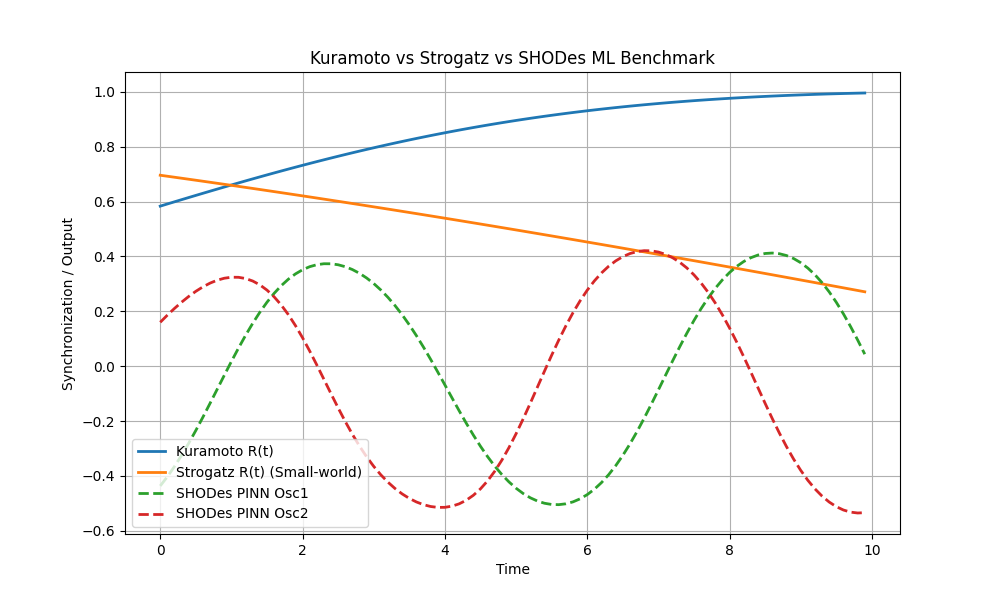
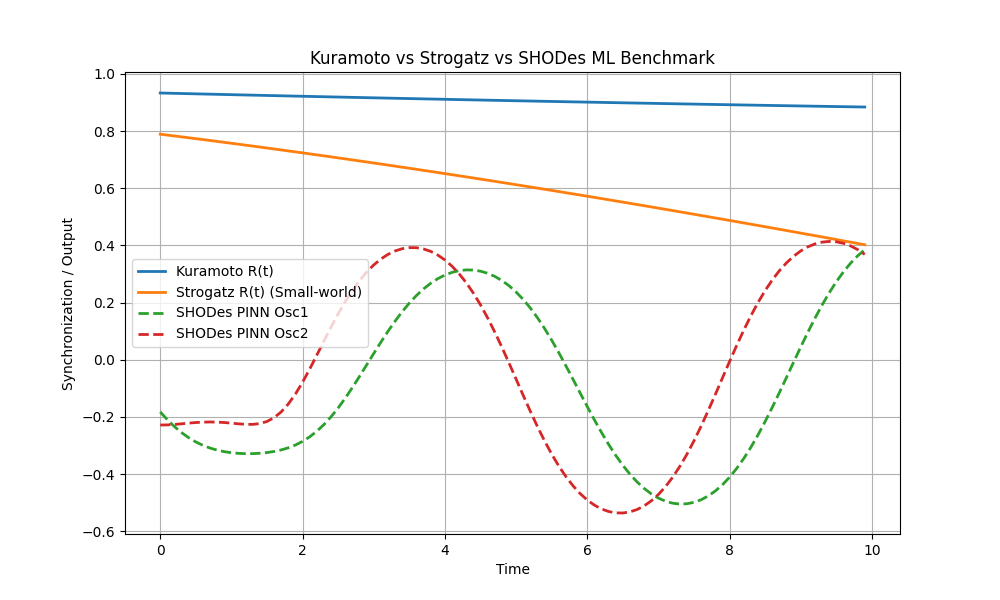
dnn benchmark update

diff --git a/benchmark.py b/benchmark.py
@@ -3,14 +3,13 @@ import tensorflow as tf
 import matplotlib.pyplot as plt
 import networkx as nx
 
-# ---- Kuramoto global coupling (classic) ----
-
+# --- Kuramoto and Strogatz Models ---
 def kuramoto_rhs(theta, omega, K):
     diff = theta[None, :] - theta[:, None]
     coupling = np.sum(np.sin(diff), axis=1) - np.sin(0)
     return omega + (K / 2) * coupling
 
-def simulate_kuramoto_2osc(T=10.0, dt=0.1, K=0.1, omega=None, theta0=None):
+def simulate_kuramoto_2osc(T=100.0, dt=0.1, K=0.1, omega=None, theta0=None):
     steps = int(T / dt)
     theta = np.zeros((steps + 1, 2))
     if omega is None:
@@ -31,8 +30,6 @@ def kuramoto_order_parameter(theta):
     z = np.mean(np.exp(1j * theta))
     return np.abs(z)
 
-# ---- Strogatz: Watts-Strogatz small-world network ----
-
 def watts_strogatz_adjacency(n, k=1, p=0.5, seed=42):
     G = nx.watts_strogatz_graph(n=n, k=k, p=p, seed=seed)
     A = nx.to_numpy_array(G, dtype=float)
@@ -44,7 +41,7 @@ def kuramoto_rhs_network(theta, omega, K, A):
     coupling = (A * np.sin(diff)).sum(axis=1)
     return omega + (K / max(1, A.shape[0])) * coupling
 
-def simulate_kuramoto_strogatz_2osc(T=10.0, dt=0.1, K=0.1, omega=None, theta0=None, p=0.5):
+def simulate_kuramoto_strogatz_2osc(T=100.0, dt=0.1, K=0.1, omega=None, theta0=None, p=0.5):
     n = 2
     A = watts_strogatz_adjacency(n=n, k=1, p=p, seed=42)
     steps = int(T / dt)
@@ -63,16 +60,14 @@ def simulate_kuramoto_strogatz_2osc(T=10.0, dt=0.1, K=0.1, omega=None, theta0=No
     time = np.linspace(0, T, steps + 1)
     return time, theta
 
-# ---- SHODes ML Model runner section ----
-
-def run_shodes_pinn_dnn(batch_size=100, n_oscillators=2, model_type='genpot3', params=[1.0, 0.1, 0.1]):
+# --- SHODes PINN and DNN model runner ---
+def run_shodes_pinn_dnn(batch_size=1001, n_oscillators=2, model_type='genpot3', params=[1.0, 0.1, 0.1]):
     pinn_path = f'models/merged_pinn_{model_type}.keras'
     dnn_path = f'models/merged_dnn_model.keras'
     merged_pinn = tf.keras.models.load_model(pinn_path)
     dnn = tf.keras.models.load_model(dnn_path)
-    # Use Kuramoto's phases as dummy displacements for ML model
-    time_ml, theta_ml = simulate_kuramoto_2osc(T=10, dt=0.1, K=params[2])
-    x_data = np.sin(theta_ml[:batch_size]).astype(np.float32) # Shape: (batch_size, n_oscillators)
+    time_ml, theta_ml = simulate_kuramoto_2osc(T=100.0, dt=0.1, K=params[2])
+    x_data = np.sin(theta_ml[:batch_size]).astype(np.float32)
     t_data = time_ml[:batch_size].astype(np.float32)
     t_input = np.expand_dims(t_data, axis=1)
     pinn_outputs = merged_pinn.predict([t_input, x_data])
@@ -81,34 +76,35 @@ def run_shodes_pinn_dnn(batch_size=100, n_oscillators=2, model_type='genpot3', p
     potential_predictions = dnn.predict(dnn_input)
     return time_ml[:batch_size], pinn_outputs, potential_predictions
 
-# ---- Main: run all and plot ----
-
-def main():
-    # Run Kuramoto (global coupling)
-    time_k, theta_k = simulate_kuramoto_2osc(T=10, dt=0.1, K=0.1)
-    R_kuramoto = np.array([kuramoto_order_parameter(theta_k[t]) for t in range(len(time_k))])
-
-    # Run Strogatz (Watts-Strogatz small-world)
-    time_s, theta_s = simulate_kuramoto_strogatz_2osc(T=10, dt=0.1, K=0.1, p=0.5)
-    R_strogatz = np.array([kuramoto_order_parameter(theta_s[t]) for t in range(len(time_s))])
-
-    # Run SHODes model
-    batch_size = 100
-    time_ml, pinn_outputs, potential_predictions = run_shodes_pinn_dnn(batch_size=batch_size)
-
-    # Plot all curves
-    plt.figure(figsize=(10,6))
-    plt.plot(time_k[:batch_size], R_kuramoto[:batch_size], label='Kuramoto R(t)', lw=2)
-    plt.plot(time_s[:batch_size], R_strogatz[:batch_size], label='Strogatz R(t) (Small-world)', lw=2)
-    plt.plot(time_ml, pinn_outputs[:, 0], label='SHODes PINN Osc1', lw=2, ls='--')
-    plt.plot(time_ml, pinn_outputs[:, 1], label='SHODes PINN Osc2', lw=2, ls='--')
-    plt.xlabel("Time")
-    plt.ylabel("Synchronization / Output")
-    plt.title("Kuramoto vs Strogatz vs SHODes ML Benchmark")
-    plt.legend()
-    plt.grid(True)
-    plt.savefig('benchmark3.png')
+# --- Plotting function including DNN energy ---
+def plot_benchmark_with_dnn(time_k, R_kuramoto, time_s, R_strogatz, time_ml, pinn_outputs, dnn_energy):
+    fig, axs = plt.subplots(2, 1, figsize=(12, 8), sharex=True, constrained_layout=True)
+    axs[0].plot(time_k, R_kuramoto, label='Kuramoto R(t)', linewidth=2)
+    axs[0].plot(time_s, R_strogatz, label='Strogatz R(t) (Small-world)', linewidth=2)
+    axs[0].set_ylabel('Order Parameter R(t)')
+    axs[0].legend()
+    axs[0].set_title('Synchronization: Kuramoto vs Strogatz')
+    axs[1].plot(time_ml, pinn_outputs[:, 0], '--', label='SHODes PINN Oscillator 1')
+    axs[1].plot(time_ml, pinn_outputs[:, 1], '--', label='SHODes PINN Oscillator 2')
+    axs[1].plot(time_ml, dnn_energy.squeeze(), ':', label='SHODes DNN Predicted Energy')
+    axs[1].set_xlabel('Time')
+    axs[1].set_ylabel('Amplitude / Energy')
+    axs[1].legend()
+    axs[1].set_title('SHODes PINN Dynamics and DNN Energy')
+    axs[1].grid(True)
+    axs[0].grid(True)
+    plt.savefig('benchmark_with_dnn.png')
     plt.show()
+
+# --- Main procedure for 100s simulation ---
+def main():
+    time_k, theta_k = simulate_kuramoto_2osc(T=100.0, dt=0.1, K=0.1)
+    R_kuramoto = np.array([kuramoto_order_parameter(theta_k[t]) for t in range(len(time_k))])
+    time_s, theta_s = simulate_kuramoto_strogatz_2osc(T=100.0, dt=0.1, K=0.1, p=0.5)
+    R_strogatz = np.array([kuramoto_order_parameter(theta_s[t]) for t in range(len(time_s))])
+    batch_size = len(time_k)
+    time_ml, pinn_outputs, dnn_energy = run_shodes_pinn_dnn(batch_size=batch_size)
+    plot_benchmark_with_dnn(time_k, R_kuramoto, time_s, R_strogatz, time_ml, pinn_outputs, dnn_energy)
 
 if __name__ == "__main__":
     main()
